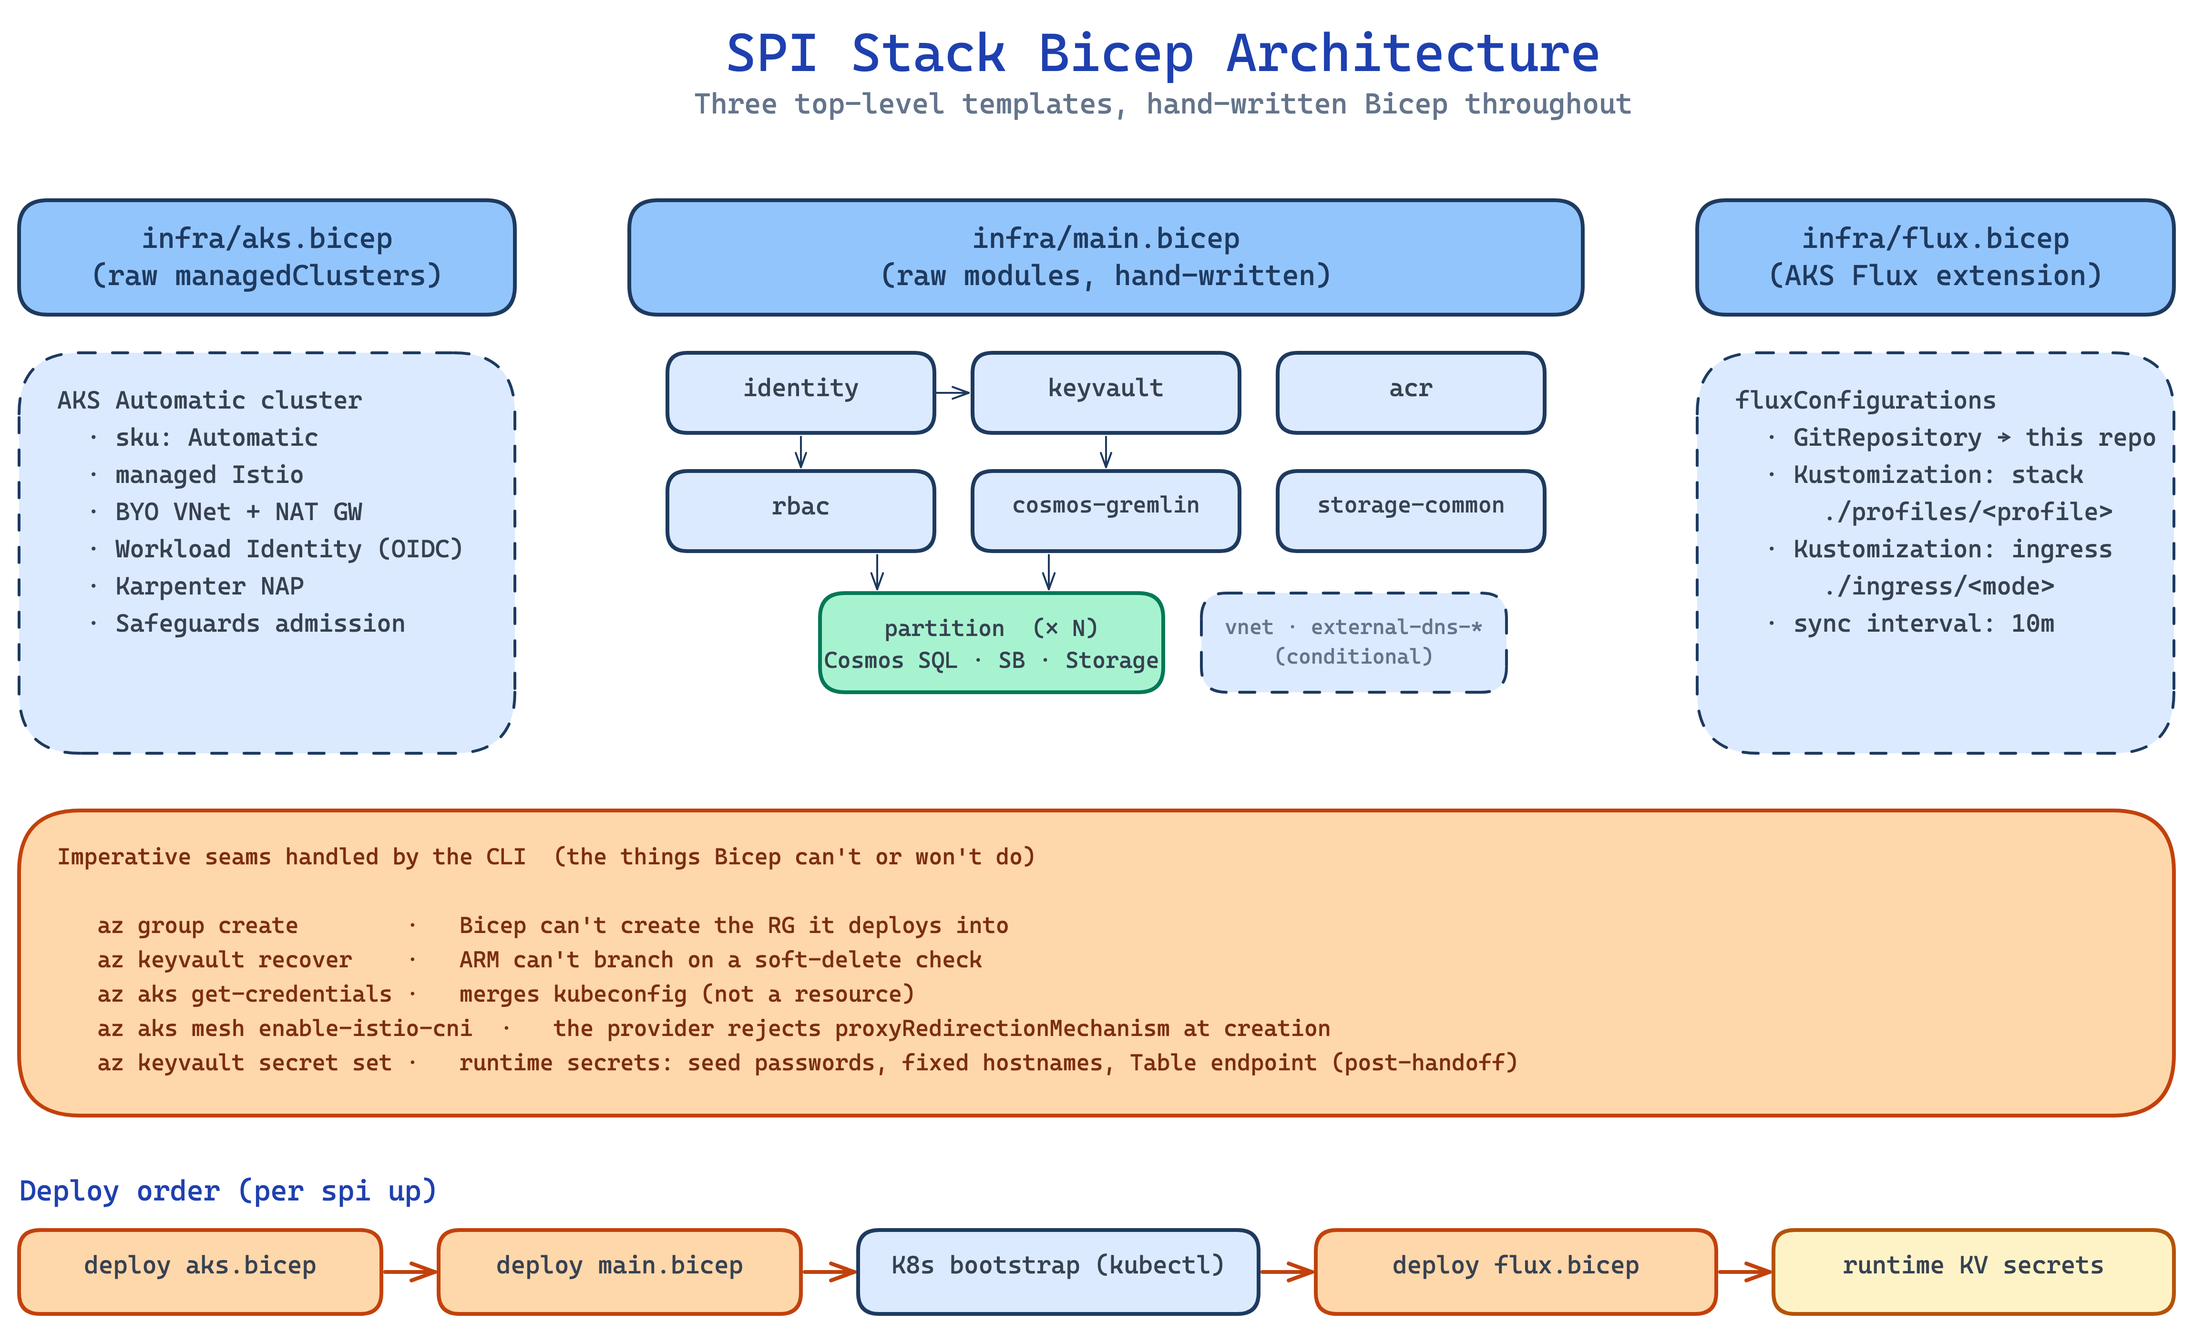
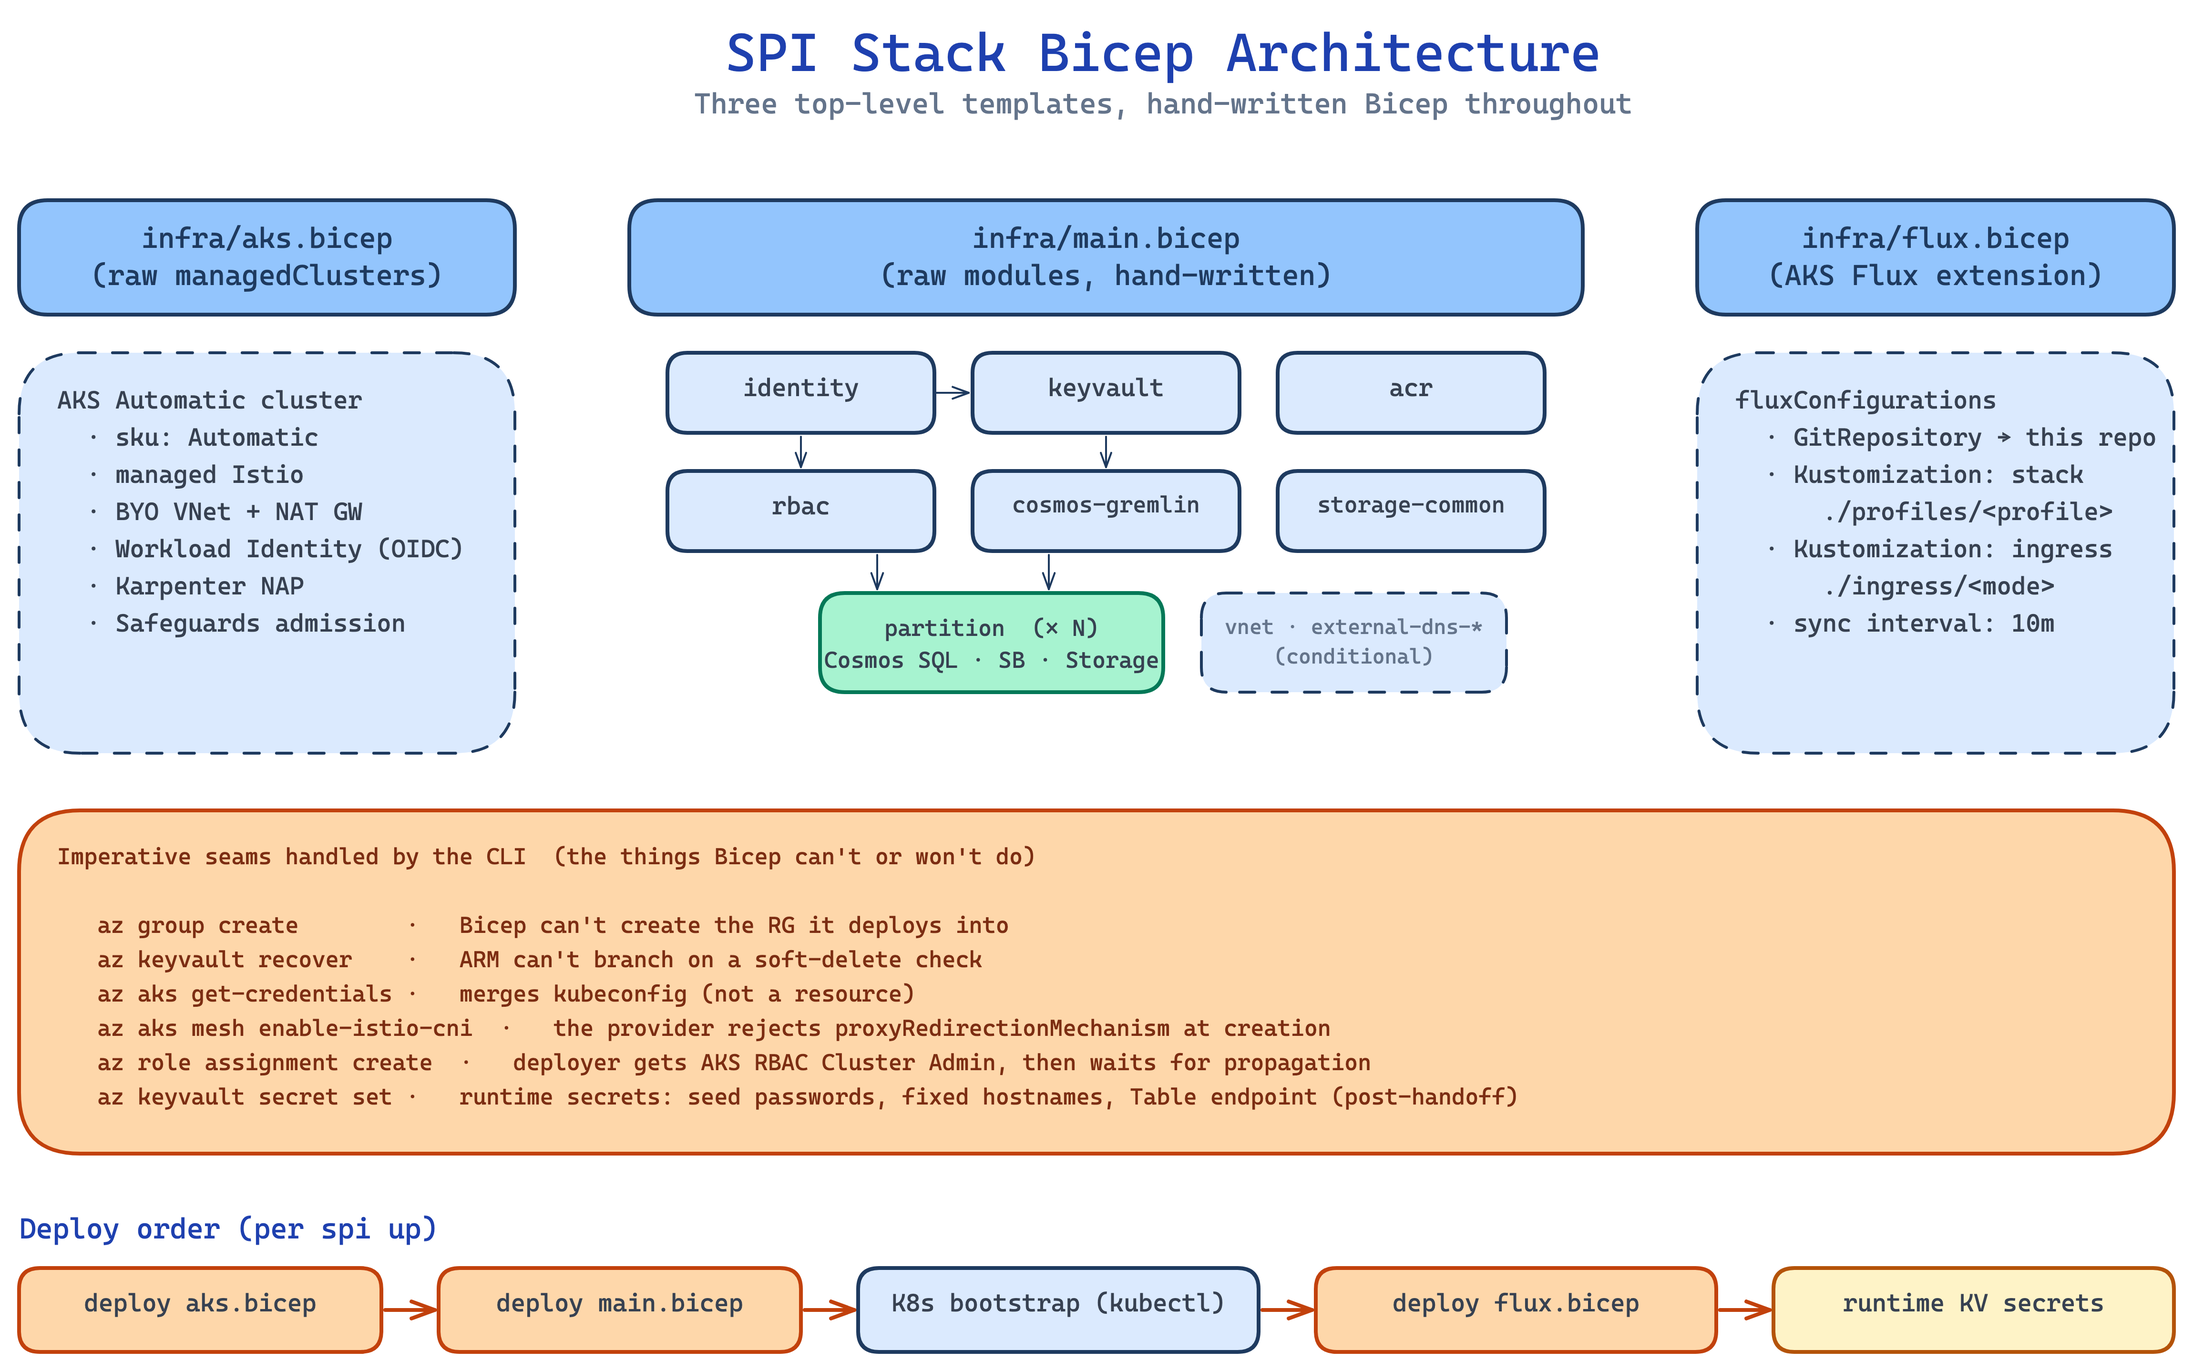
docs: record the deployer cluster-admin grant as an imperative seam and fix the DNS role scope
ADR-008, the architecture overview, the Bicep design doc, the deployment
lifecycle (with steps renumbered and cross-references updated), and the
Bicep diagram now list the az role assignment create that grants the
signed-in principal AKS RBAC Cluster Admin and waits for propagation.
The ExternalDNS identity's DNS Zone Contributor role is scoped to the
zone, not its resource group.

diff --git a/docs/design/deployment-lifecycle.md b/docs/design/deployment-lifecycle.md
@@ -31,12 +31,13 @@ The sequence inside `deploy.deploy_azure()` is:
 5. **`infra/aks.bicep` deploy.** AKS Automatic cluster, BYO VNet + NAT gateway, managed Istio, declared as a raw `Microsoft.ContainerService/managedClusters` resource. This is the slowest single step (~30 min).
 6. **`az aks get-credentials`** merges the kubeconfig.
 7. **`az aks mesh enable-istio-cni`.** The resource provider rejects `proxyRedirectionMechanism` at cluster creation, so the CLI enables CNI chaining afterwards and skips the call when the cluster already reports `CNIChaining`. See [ADR-008](../decisions/008-bicep-for-azure-provisioning.md).
-8. **`infra/main.bicep` deploy.** Identity, RBAC, Key Vault (with Bicep-resolved secrets), ACR, Cosmos DB Gremlin, per-partition (Cosmos SQL + Service Bus + Storage), common Storage, optional `external-dns-*` for `dns` ingress. (The VNet is provisioned by `aks.bicep`, not here.)
-9. **K8s bootstrap.** `kubectl apply` for namespaces, StorageClasses, the middleware secret seed (`spi-secrets`) plus the `platform`/`osdu` credential Secrets, `workload-identity-sa` (in `platform` and `osdu`), the `osdu-config` ConfigMap, the `spi-ingress-config` ConfigMap, the `spi-init-values` ConfigMap, and the Istio JWT projection resources from [ADR-016](../decisions/016-istio-jwt-projection.md). The `core` profile also creates the `osdu-image-lock` ConfigMap, resolved live from the OSDU community registry per [ADR-017](../decisions/017-osdu-image-lock.md); `minimal` and `bare` skip image resolution and this ConfigMap.
-10. **`infra/flux.bicep` deploy.** Activates the AKS Flux extension and creates the `fluxConfigurations` resource with two top-level Kustomizations: `stack` (pointing at `./software/stacks/osdu/profiles/<profile>`) and `ingress` (pointing at `./software/stacks/osdu/ingress/<mode>`).
-11. **Runtime Key Vault secrets.** The CLI writes the runtime secrets to Key Vault: per-partition Elasticsearch credentials and Redis hostname/password from the generated seed passwords and fixed in-cluster hostnames, and `tbl-storage-endpoint` derived from the common Storage account name. There is no wait for middleware Ready, since every value is known once infra is up. See [ADR-010](../decisions/010-keyvault-secret-management.md).
-12. **Suspend pin.** `_finalize_gitops_source()` waits up to 10 minutes for `gitrepository/osdu-spi-stack-system` to appear, resumes and reconciles it with a 10-minute timeout, verifies `Ready=True` and the requested artifact revision, then `_set_source_suspended()` patches `spec.suspend: true`. See [ADR-014](../decisions/014-suspend-gitops-after-deploy.md).
-13. **Next-steps panel.** The CLI prints `spi status --watch`, `spi info`, and the matching `spi down` command with flags pre-filled.
+8. **Deployer cluster-admin grant.** `az role assignment create --role "Azure Kubernetes Service RBAC Cluster Admin"` on the cluster for the signed-in principal, then a wait until the assignment propagates (minutes). Local accounts are disabled, so bootstrap `kubectl` has no other path.
+9. **`infra/main.bicep` deploy.** Identity, RBAC, Key Vault (with Bicep-resolved secrets), ACR, Cosmos DB Gremlin, per-partition (Cosmos SQL + Service Bus + Storage), common Storage, optional `external-dns-*` for `dns` ingress. (The VNet is provisioned by `aks.bicep`, not here.)
+10. **K8s bootstrap.** `kubectl apply` for namespaces, StorageClasses, the middleware secret seed (`spi-secrets`) plus the `platform`/`osdu` credential Secrets, `workload-identity-sa` (in `platform` and `osdu`), the `osdu-config` ConfigMap, the `spi-ingress-config` ConfigMap, the `spi-init-values` ConfigMap, and the Istio JWT projection resources from [ADR-016](../decisions/016-istio-jwt-projection.md). The `core` profile also creates the `osdu-image-lock` ConfigMap, resolved live from the OSDU community registry per [ADR-017](../decisions/017-osdu-image-lock.md); `minimal` and `bare` skip image resolution and this ConfigMap.
+11. **`infra/flux.bicep` deploy.** Activates the AKS Flux extension and creates the `fluxConfigurations` resource with two top-level Kustomizations: `stack` (pointing at `./software/stacks/osdu/profiles/<profile>`) and `ingress` (pointing at `./software/stacks/osdu/ingress/<mode>`).
+12. **Runtime Key Vault secrets.** The CLI writes the runtime secrets to Key Vault: per-partition Elasticsearch credentials and Redis hostname/password from the generated seed passwords and fixed in-cluster hostnames, and `tbl-storage-endpoint` derived from the common Storage account name. There is no wait for middleware Ready, since every value is known once infra is up. See [ADR-010](../decisions/010-keyvault-secret-management.md).
+13. **Suspend pin.** `_finalize_gitops_source()` waits up to 10 minutes for `gitrepository/osdu-spi-stack-system` to appear, resumes and reconciles it with a 10-minute timeout, verifies `Ready=True` and the requested artifact revision, then `_set_source_suspended()` patches `spec.suspend: true`. See [ADR-014](../decisions/014-suspend-gitops-after-deploy.md).
+14. **Next-steps panel.** The CLI prints `spi status --watch`, `spi info`, and the matching `spi down` command with flags pre-filled.
 
 At this point the CLI exits. You have a cluster with Flux installed, a suspended `GitRepository`, all `Kustomization` definitions queued, and the runtime KV secrets in place. The OSDU services have not finished starting yet.
 
@@ -144,10 +145,10 @@ Milestones to watch for in the CLI output:
 
 1. **"Resource group spi-stack-dev1 ready"** -- Phase 1 step 3.
 2. **"AKS deployment complete"** -- Phase 1 step 5. The cluster exists.
-3. **"PaaS deployment complete"** -- Phase 1 step 8. Cosmos, Service Bus, Storage, Key Vault, ACR are live.
-4. **"Flux extension activated"** -- Phase 1 step 10. Flux is running in `flux-system`; SPI GitOps objects reconcile in `osdu-flux`.
-5. **"Writing OSDU bootstrap secrets to Key Vault..."** -- Phase 1 step 11. Redis/Elasticsearch credentials and `tbl-storage-endpoint` are written from the seed passwords, fixed in-cluster hostnames, and the common Storage account name.
-6. **"GitRepository suspended"** -- Phase 1 step 12. CLI is about to exit.
+3. **"PaaS deployment complete"** -- Phase 1 step 9. Cosmos, Service Bus, Storage, Key Vault, ACR are live.
+4. **"Flux extension activated"** -- Phase 1 step 11. Flux is running in `flux-system`; SPI GitOps objects reconcile in `osdu-flux`.
+5. **"Writing OSDU bootstrap secrets to Key Vault..."** -- Phase 1 step 12. Redis/Elasticsearch credentials and `tbl-storage-endpoint` are written from the seed passwords, fixed in-cluster hostnames, and the common Storage account name.
+6. **"GitRepository suspended"** -- Phase 1 step 13. CLI is about to exit.
 
 Switch to another terminal:
 

diff --git a/docs/design/bicep-architecture.md b/docs/design/bicep-architecture.md
@@ -53,13 +53,14 @@ Splitting them also keeps `--dry-run` useful: `spi up --dry-run` runs `az deploy
 
 ## Imperative seams in the CLI
 
-Five things Bicep cannot or will not do; the CLI handles them with `az`:
+Six things Bicep cannot or will not do; the CLI handles them with `az`:
 
 1. **`az group create`.** Bicep cannot create the resource group it deploys into.
 2. **Soft-delete Key Vault recovery.** `az keyvault list-deleted | jq` + `az keyvault recover`. ARM cannot branch on a live query, so the CLI checks before submitting `main.bicep` and runs `recover` if needed.
 3. **`az aks get-credentials`.** Kubeconfig merge is a client-side operation, not a resource.
 4. **`az aks mesh enable-istio-cni`.** The resource provider rejects `proxyRedirectionMechanism` at cluster creation. The CLI enables CNI chaining after `aks.bicep` lands and skips the call when the cluster already reports `CNIChaining`.
-5. **Runtime Key Vault secrets.** The middleware secrets (`redis-*`, `{p}-elastic-*`) and `tbl-storage-endpoint` are not declared in Bicep. The CLI writes them with `az keyvault secret set` from the generated seed passwords, fixed in-cluster hostnames, and the common Storage account name, with no wait for middleware Ready, since every value is known once infra is up. See [ADR-010](../decisions/010-keyvault-secret-management.md) and the [secret lifecycle](secret-lifecycle.md) doc for the full handoff.
+5. **Deployer cluster-admin grant.** `az role assignment create --role "Azure Kubernetes Service RBAC Cluster Admin"` on the cluster for the signed-in principal, then a wait until the assignment propagates (minutes). Local accounts are disabled, so bootstrap `kubectl` has no other path.
+6. **Runtime Key Vault secrets.** The middleware secrets (`redis-*`, `{p}-elastic-*`) and `tbl-storage-endpoint` are not declared in Bicep. The CLI writes them with `az keyvault secret set` from the generated seed passwords, fixed in-cluster hostnames, and the common Storage account name, with no wait for middleware Ready, since every value is known once infra is up. See [ADR-010](../decisions/010-keyvault-secret-management.md) and the [secret lifecycle](secret-lifecycle.md) doc for the full handoff.
 
 Adding a seam is a smell; confirm first that the resource provider rejects the setting declaratively.
 
@@ -83,6 +84,7 @@ spi up --env <env>
    ├── az deployment group create  --template-file infra/flux.bicep
    │       --parameters profile=<profile> ingressMode=<mode>
    │
+   ├── az role assignment create  (deployer AKS RBAC Cluster Admin, wait for propagation)
    └── az keyvault secret set  (runtime secrets: seed passwords, fixed hostnames, Table endpoint)
 ```
 

diff --git a/docs/architecture.md b/docs/architecture.md
@@ -7,7 +7,7 @@
 
 ## Overview
 
-SPI Stack deploys the OSDU platform on Azure with a hybrid provisioning model: Bicep declares every Azure resource, the `spi` CLI orchestrates the seams Bicep cannot cover (resource group creation, soft-delete Key Vault recovery, K8s bootstrap, Istio CNI chaining), and Flux CD continuously reconciles everything inside the cluster. Unlike a cloud-agnostic stack where all middleware runs in-cluster, SPI Stack offloads data services to Azure PaaS (Cosmos DB, Service Bus, Storage, Key Vault, Entra ID) and keeps in-cluster workloads only where no managed equivalent exists.
+SPI Stack deploys the OSDU platform on Azure with a hybrid provisioning model: Bicep declares every Azure resource, the `spi` CLI orchestrates the seams Bicep cannot cover (resource group creation, soft-delete Key Vault recovery, the deployer's cluster-admin role assignment, K8s bootstrap, Istio CNI chaining), and Flux CD continuously reconciles everything inside the cluster. Unlike a cloud-agnostic stack where all middleware runs in-cluster, SPI Stack offloads data services to Azure PaaS (Cosmos DB, Service Bus, Storage, Key Vault, Entra ID) and keeps in-cluster workloads only where no managed equivalent exists.
 
 ### How the system works
 
@@ -220,7 +220,7 @@ A single User-Assigned Managed Identity (`<cluster>-osdu-identity`) is shared by
 | Cosmos DB Built-in Data Contributor | Per-partition SQL account, Gremlin account | Cosmos data-plane RBAC |
 | AcrPull | ACR | Pull container images |
 
-A second UAMI (`<cluster>-external-dns`, scoped `DNS Zone Contributor` on the zone's resource group) is provisioned conditionally when the ingress mode is `dns`. See [ADR-005](decisions/005-workload-identity.md) and [ADR-012](decisions/012-ingress-profiles.md).
+A second UAMI (`<cluster>-external-dns`, scoped `DNS Zone Contributor` on the DNS zone itself) is provisioned conditionally when the ingress mode is `dns`. See [ADR-005](decisions/005-workload-identity.md) and [ADR-012](decisions/012-ingress-profiles.md).
 
 ## Reconciliation Lifecycle
 

diff --git a/docs/decisions/008-bicep-for-azure-provisioning.md b/docs/decisions/008-bicep-for-azure-provisioning.md
@@ -8,7 +8,7 @@ Bicep inherits ARM's idempotency and parallel orchestration without a state file
 
 ## Decision
 
-All Azure resources are declared in Bicep. The Python CLI is a thin orchestrator that calls `az deployment group create` once per template and handles the seams Bicep cannot cover.
+All Azure resources except the deployer's cluster-admin role assignment are declared in Bicep. The Python CLI is a thin orchestrator that calls `az deployment group create` once per template and handles the seams Bicep cannot cover.
 
 Layout:
 
@@ -22,6 +22,7 @@ Imperative in the CLI (via `az`), not Bicep:
 - Soft-deleted Key Vault precheck and `az keyvault recover`. ARM cannot branch on a live query.
 - `az aks get-credentials`. Kubeconfig merge, not a resource.
 - `az aks mesh enable-istio-cni`. The resource provider rejects `proxyRedirectionMechanism` at cluster creation; the CLI skips the call when the cluster already reports `CNIChaining`.
+- `az role assignment create` granting the signed-in principal Azure Kubernetes Service RBAC Cluster Admin on the cluster, awaited until it propagates. Local accounts are disabled, so bootstrap `kubectl` cannot run without it, and the principal is only known at run time.
 - Key Vault runtime secrets: Redis and per-partition Elasticsearch credentials from the generated seed passwords and fixed in-cluster hostnames, plus `tbl-storage-endpoint` derived from the common Storage account name. Written post-handoff by the CLI without waiting for middleware (ADR-010).
 - K8s bootstrap: namespaces, StorageClasses, ServiceAccount, `osdu-config` ConfigMap.
 

diff --git a/docs/design/workload-identity.md b/docs/design/workload-identity.md
@@ -43,7 +43,7 @@ Workload Identity gets the bearer **into** the pod. ADR-016 is about what happen
 
 The Azure-provider OSDU service images (`*-service-azure:*`) include an in-process Spring filter that reads the caller's application identity from a request header, not from the bearer directly. The header has to be populated by the Istio sidecar before the request reaches Java. With no Istio policy in place, the header is absent and authorization fails before any business logic runs.
 
-The SPI Stack CLI applies three Istio resources during K8s bootstrap (Phase 1, step 9 in [deployment-lifecycle](deployment-lifecycle.md)):
+The SPI Stack CLI applies three Istio resources during K8s bootstrap (Phase 1, step 10 in [deployment-lifecycle](deployment-lifecycle.md)):
 
 - **`RequestAuthentication` `spi-osdu-jwt-authn`** validates the bearer against both AAD v1 and v2 issuers, with audiences `{client_id}` and `https://management.azure.com[/]`. Configured with `outputPayloadToHeader: x-payload` so the decoded JWT lands in Envoy dynamic metadata.
 - **`EnvoyFilter` `spi-osdu-identity-filter`** on `SIDECAR_INBOUND`. Lua reads the JWT metadata and writes `x-app-id` / `x-user-id`. The branch that special-cases `aud == https://management.azure.com/` writes the OSDU UAMI client_id into both headers (so bootstrap Jobs with management-scope bearers land with the right `app-id`).

diff --git a/docs/design/secret-lifecycle.md b/docs/design/secret-lifecycle.md
@@ -50,7 +50,7 @@ A small set of KV secrets covers the in-cluster middleware. The CLI knows all of
 | `redis-hostname`, `redis-password` | Fixed Redis service DNS + generated `redis_password` |
 | `tbl-storage-endpoint` | `https://<common storage account>.table.core.windows.net/` |
 
-`src/spi/deploy.py` (`_write_keyvault_bootstrap_secrets`) writes these with `az keyvault secret set` at Phase 1 step 11 of `spi up` ([deployment-lifecycle](deployment-lifecycle.md)). Because every value is generated, fixed, or derived from a name the CLI already holds, there is no wait for middleware to reach `Ready`.
+`src/spi/deploy.py` (`_write_keyvault_bootstrap_secrets`) writes these with `az keyvault secret set` at Phase 1 step 12 of `spi up` ([deployment-lifecycle](deployment-lifecycle.md)). Because every value is generated, fixed, or derived from a name the CLI already holds, there is no wait for middleware to reach `Ready`.
 
 Re-running `spi up` against a live cluster re-runs these writes idempotently; KV is fine with rewrites of the same value.
 
